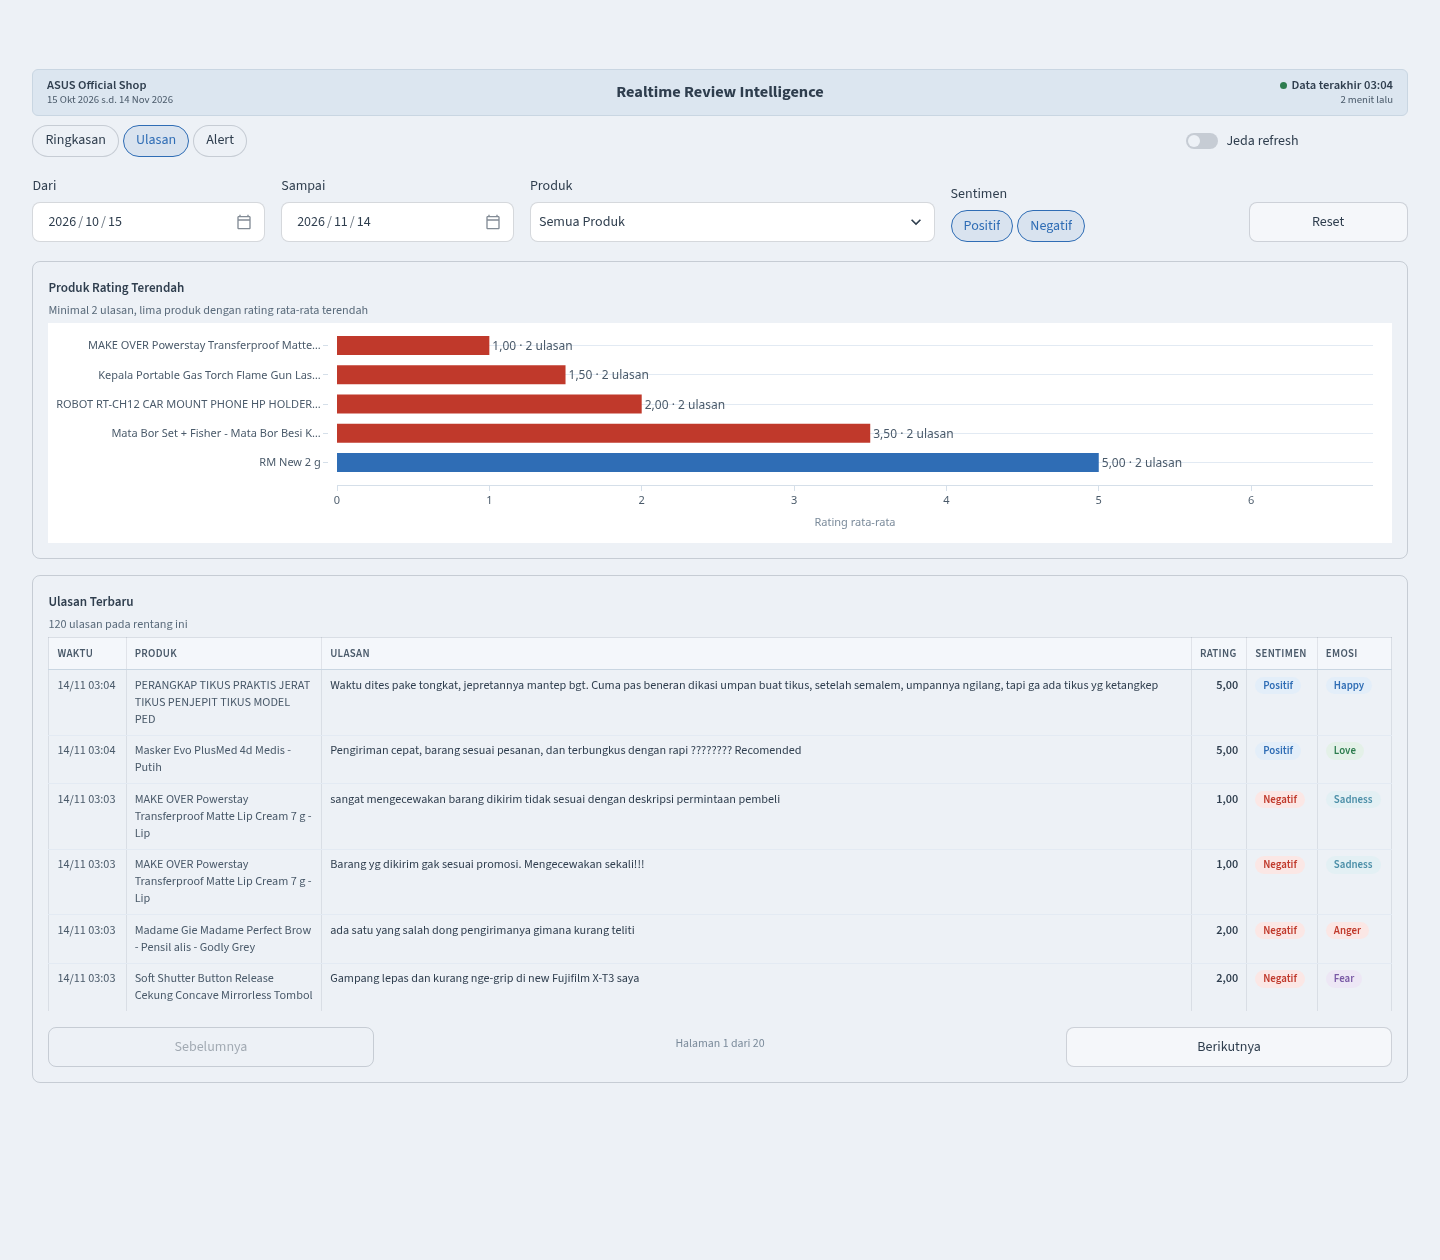
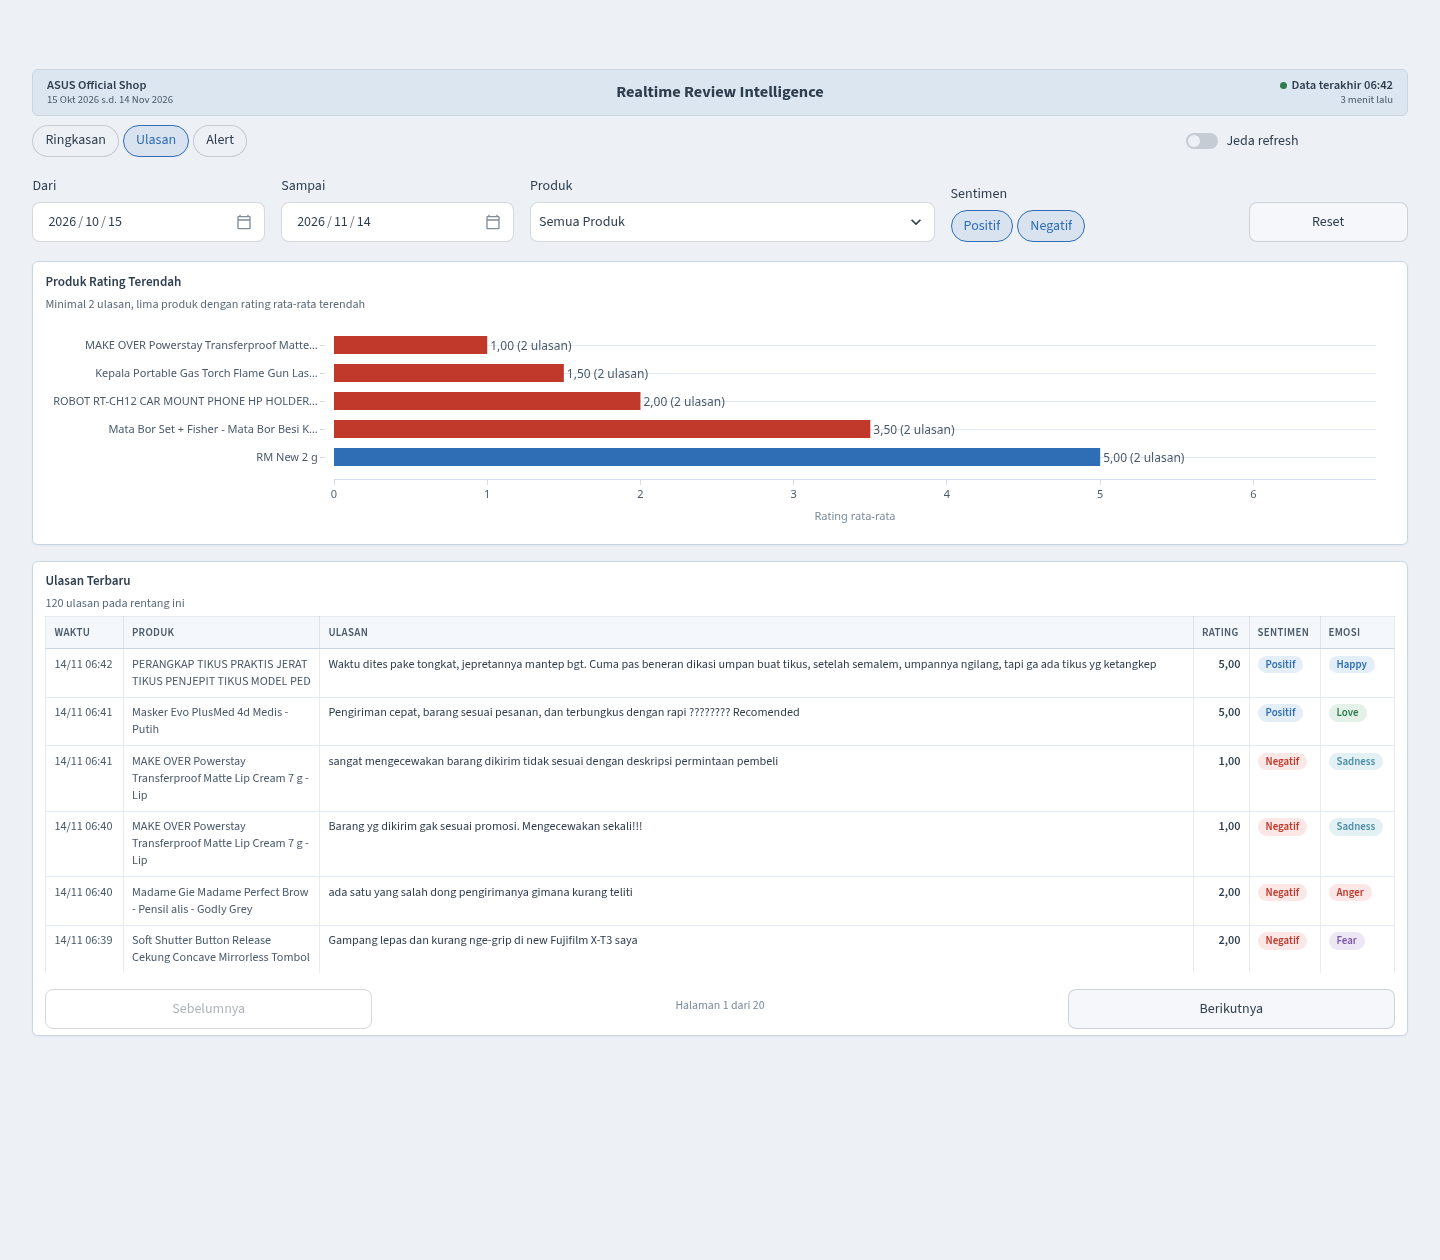
feat(dashboard): add recent trend chart and white chart cards
- show filter-range trend beside a one-minute chart for the last ten minutes
- bucket the long trend by the actual data span
- give every chart card a white surface and add spacing after kpis
- format product labels as rating with review count in parentheses
- widen replay span to one hour for a meaningful demo

diff --git a/streaming/services/dashboard/components.py b/streaming/services/dashboard/components.py
@@ -1,6 +1,7 @@
 from __future__ import annotations
 
 import html
+import re
 from contextlib import contextmanager
 from math import ceil
 
@@ -76,11 +77,11 @@ html, body, .stApp, [data-testid="stAppViewContainer"], [data-testid="stMain"] {
 .card-title { font-size: 0.82rem; font-weight: 600; color: var(--ink); margin: 0 0 0.15rem; }
 .card-sub { font-size: 0.76rem; color: #5A6B7B; margin: 0 0 0.2rem; }
 
-div[data-testid="stVerticalBlockBorderWrapper"] {
+div[class*="st-key-card-"] {
   background: #FFFFFF !important;
   border: 1px solid var(--line) !important;
   border-radius: 6px !important;
-  padding: 0.5rem 0.7rem 0.35rem !important;
+  padding: 0.55rem 0.75rem 0.4rem !important;
   box-shadow: 0 1px 2px rgba(47, 62, 78, 0.05);
 }
 
@@ -181,7 +182,8 @@ def kpi(label: str, value: str, merah: bool = False, sub: str = "") -> None:
 
 @contextmanager
 def kartu(judul: str, sub: str = ""):
-    with st.container(border=True):
+    kunci = "card-" + re.sub(r"[^a-z0-9]+", "-", judul.lower()).strip("-")
+    with st.container(border=True, key=kunci):
         sub_html = f'<div class="card-sub">{html.escape(sub)}</div>' if sub else ""
         st.markdown(
             f'<div class="card-title">{html.escape(judul)}</div>{sub_html}',
@@ -211,7 +213,7 @@ def waktu(value) -> str:
 def gaya(fig: go.Figure, tinggi: int = 300, legenda: bool = False) -> go.Figure:
     fig.update_layout(
         height=tinggi,
-        margin=dict(l=8, r=18, t=8, b=8),
+        margin=dict(l=8, r=18, t=14, b=8),
         paper_bgcolor="#FFFFFF",
         plot_bgcolor="#FFFFFF",
         font=dict(size=12, color=INK_SOFT, family="Source Sans Pro, system-ui, sans-serif"),
@@ -240,7 +242,7 @@ def gaya(fig: go.Figure, tinggi: int = 300, legenda: bool = False) -> go.Figure:
     return fig
 
 
-def chart_tren(df: pd.DataFrame) -> go.Figure:
+def chart_tren(df: pd.DataFrame, tickformat: str = "%H:%M", tinggi: int = 290) -> go.Figure:
     fig = go.Figure(
         go.Scatter(
             x=df["bucket"],
@@ -253,9 +255,9 @@ def chart_tren(df: pd.DataFrame) -> go.Figure:
             hovertemplate="%{x|%d/%m %H:%M}<br>Rating %{y:.2f}<extra></extra>",
         )
     )
-    fig.update_yaxes(range=[1, 5], dtick=1)
-    fig.update_xaxes(tickformat="%H:%M", nticks=8)
-    return gaya(fig, tinggi=290)
+    fig.update_yaxes(range=[1, 5.3], dtick=1)
+    fig.update_xaxes(tickformat=tickformat, nticks=8)
+    return gaya(fig, tinggi=tinggi)
 
 
 def chart_sentimen(df: pd.DataFrame) -> go.Figure:
@@ -317,7 +319,7 @@ def chart_produk(df: pd.DataFrame) -> go.Figure:
             orientation="h",
             marker=dict(color=colors),
             text=[
-                f"{rating(v)} · {int(n)} ulasan"
+                f"{rating(v)} ({int(n)} ulasan)"
                 for v, n in zip(data["avg_rating"], data["total_reviews"])
             ],
             textposition="outside",

diff --git a/streaming/services/dashboard/app.py b/streaming/services/dashboard/app.py
@@ -33,6 +33,7 @@ from db import (
     get_products,
     get_reviews_page,
     get_sentiment_distribution,
+    get_time_bounds,
     get_time_series_rating,
     get_top_products_by_rating,
     get_total_alerts_count,
@@ -256,12 +257,45 @@ def halaman_ringkasan(
             f"{info.get('f1', 0):.4f}".replace(".", ",") if info.get("f1") is not None else "—",
             sub=f"macro F1 · v{info.get('version', '—')}")
 
-    df_tren = get_time_series_rating(filters)
-    with kartu("Tren Rating", "Rata-rata rating per 10 menit"):
-        if df_tren.empty:
-            kosong("Belum ada data rating pada rentang ini.")
-        else:
-            st.plotly_chart(chart_tren(df_tren), width="stretch", config=PLOT_CONFIG)
+    st.markdown("<div style='height:0.65rem'></div>", unsafe_allow_html=True)
+
+    awal_data, akhir_data = get_time_bounds(filters)
+    if awal_data is None or akhir_data is None:
+        rentang_hari = 0
+    else:
+        rentang_hari = max(0, (akhir_data - awal_data).days)
+    if rentang_hari <= 1:
+        bucket, label_bucket, tick = "10 minutes", "10 menit", "%H:%M"
+    elif rentang_hari <= 7:
+        bucket, label_bucket, tick = "1 hour", "jam", "%d/%m %H:%M"
+    else:
+        bucket, label_bucket, tick = "1 day", "hari", "%d/%m"
+
+    kiri_tren, kanan_tren = st.columns([2, 1])
+    with kiri_tren:
+        with kartu("Tren Rating", f"Rata-rata per {label_bucket}"):
+            df_tren = get_time_series_rating(filters, bucket=bucket)
+            if df_tren.empty:
+                kosong("Belum ada data rating pada rentang ini.")
+            else:
+                st.plotly_chart(
+                    chart_tren(df_tren, tickformat=tick),
+                    width="stretch",
+                    config=PLOT_CONFIG,
+                )
+    with kanan_tren:
+        with kartu("10 Menit Terakhir", "Rata-rata per menit"):
+            df_recent = get_time_series_rating(
+                filters, bucket="1 minute", since_minutes=10
+            )
+            if df_recent.empty:
+                kosong("Belum ada ulasan dalam 10 menit terakhir.")
+            else:
+                st.plotly_chart(
+                    chart_tren(df_recent, tickformat="%H:%M"),
+                    width="stretch",
+                    config=PLOT_CONFIG,
+                )
 
     kiri, kanan = st.columns(2)
     with kiri:

diff --git a/streaming/services/dashboard/db.py b/streaming/services/dashboard/db.py
@@ -137,12 +137,22 @@ def get_kpi_metrics(filters: dict) -> dict:
     }
 
 
+ALLOWED_BUCKETS = {"1 minute", "10 minutes", "1 hour", "1 day"}
+
+
 @st.cache_data(ttl=10)
-def get_time_series_rating(filters: dict) -> pd.DataFrame:
+def get_time_series_rating(
+    filters: dict, bucket: str = "10 minutes", since_minutes: int | None = None
+) -> pd.DataFrame:
+    if bucket not in ALLOWED_BUCKETS:
+        raise ValueError(f"Bucket tidak dikenal: {bucket}")
     where, params = _build_review_filter(filters)
+    if since_minutes:
+        extra = f"create_time >= NOW() - INTERVAL '{int(since_minutes)} minutes'"
+        where = (where + " AND " + extra) if where else ("WHERE " + extra)
     sql = f"""
         SELECT
-            date_bin('10 minutes', create_time, TIMESTAMP 'epoch') AS bucket,
+            date_bin('{bucket}', create_time, TIMESTAMP 'epoch') AS bucket,
             ROUND(AVG(rating_star)::numeric, 2)                    AS avg_rating,
             COUNT(*)                                               AS review_count
         FROM reviews
@@ -330,3 +340,12 @@ def get_data_freshness() -> dict:
     with engine.connect() as conn:
         row = conn.execute(text(sql)).fetchone()
     return {"processed_at": row[0], "create_time": row[1]}
+
+
+@st.cache_data(ttl=10)
+def get_time_bounds(filters: dict) -> tuple:
+    where, params = _build_review_filter(filters)
+    sql = f"SELECT MIN(create_time), MAX(create_time) FROM reviews {where}"
+    with engine.connect() as conn:
+        row = conn.execute(text(sql), params).fetchone()
+    return row[0], row[1]
